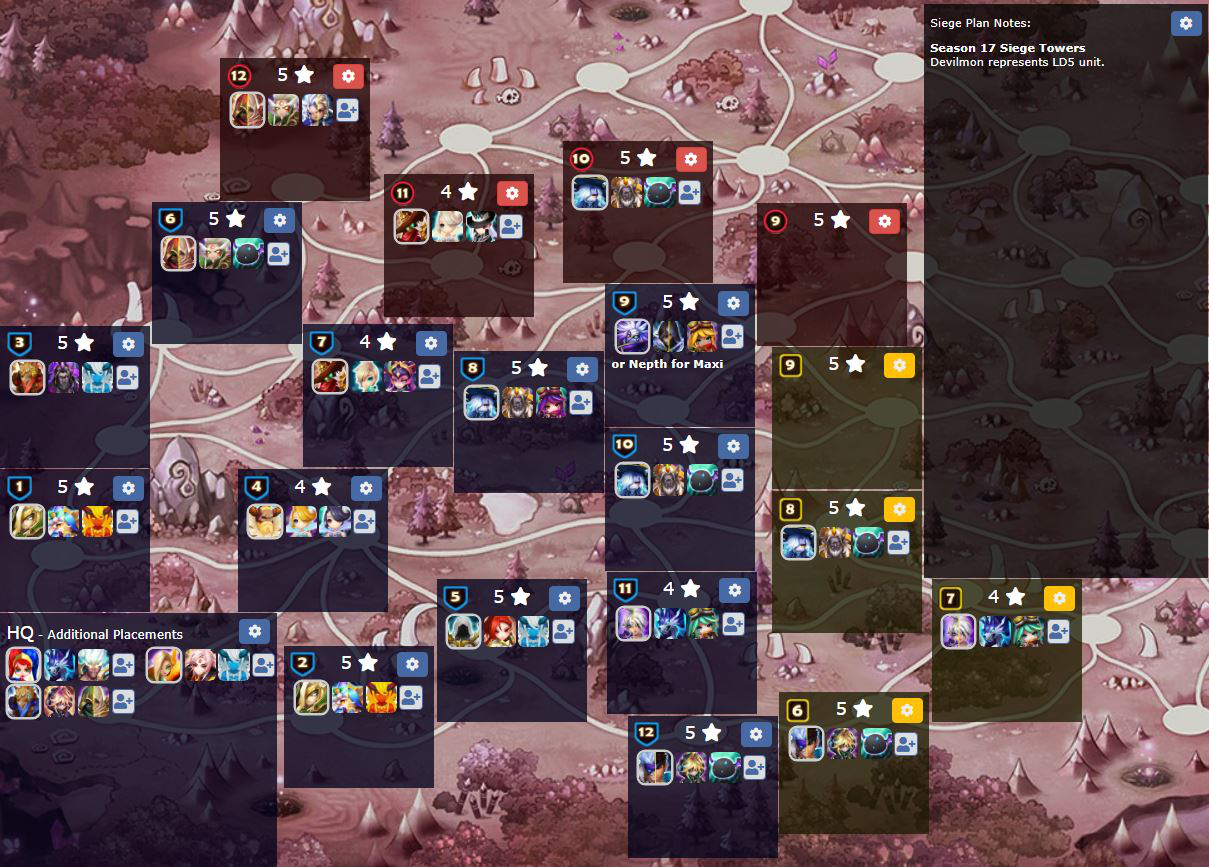
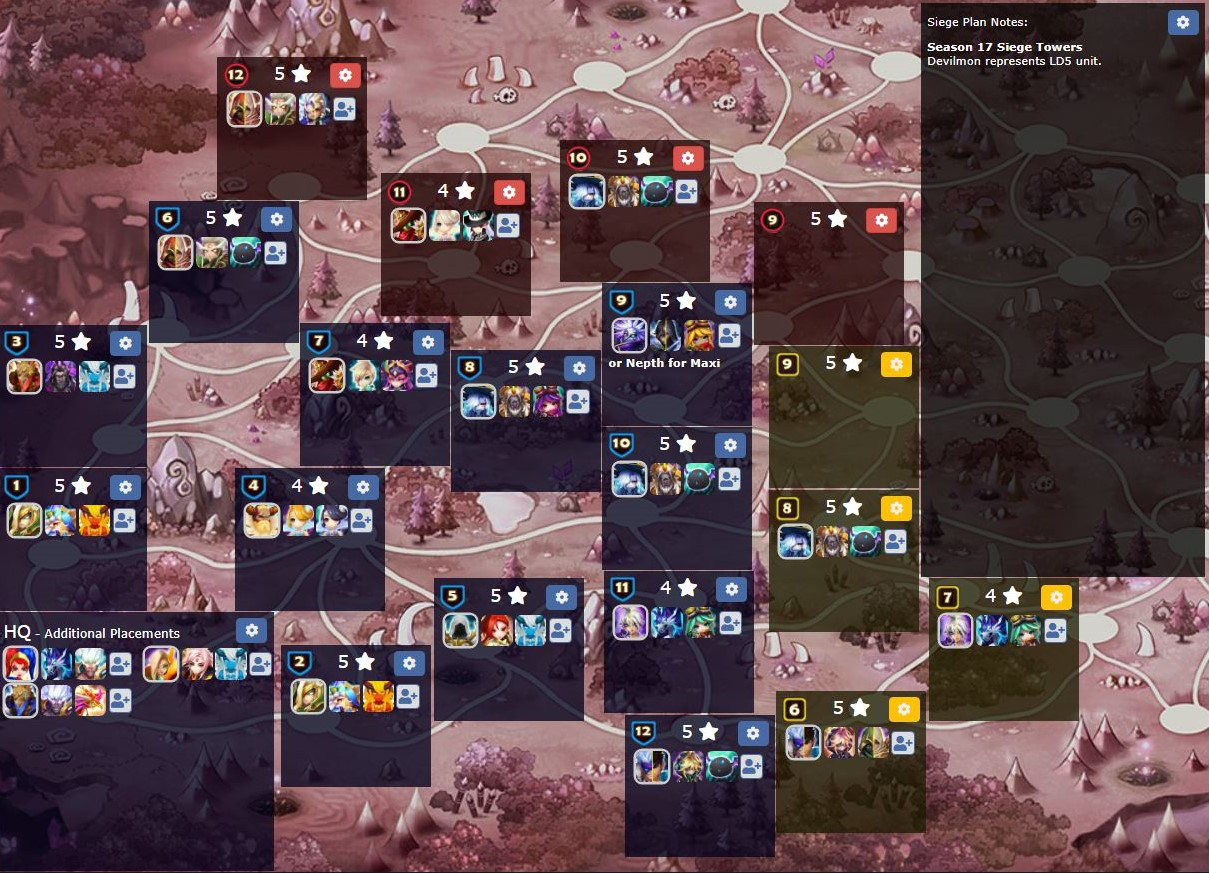
updated commit

diff --git a/index.html b/index.html
@@ -17,13 +17,12 @@
 						<div class="content">
 							<div class="inner">
 								<h1>Rock Bottom</h1>
-								<p>Season 17 Siege Defenses and Tower Placements<br />
-								SWGT platform is open for guild members <b><a href="https://rockbottom.swgt.io/">rockbottom.swgt.io</a></b></p>
+								<p>Season 17 Siege Defenses and Tower Placements</p>
 							</div>
 						</div>
 						<nav>
 							<ul>
-								<li><a href="#towers">Towers</a></li>
+								<li><a href="#towers">Defenses</a></li>
 								<li><a href="#placements">Placements</a></li>
 							</ul>
 						</nav>
@@ -32,12 +31,12 @@
 				<!-- Main -->
 			<div id="main">
 				<article id="towers">
-					<h2 class="major">Season 17 Siege Towers</h2>
+					<h2 class="major">Season 17 Siege Defense</h2>
 					<div class="container">
 
 				<!-- 5 Star Towers -->
 			<div class="section">
-					<h2>Five Star Towers</h2>
+					<h2>Five Star Defense</h2>
 					<div class="grid standard-pattern">
 						<img src="images/5Star/Maxi.png" alt="Monster">
 						<img src="images/5Star/Lionel.png" alt="Monster">
@@ -120,6 +119,12 @@
 								</div>
 
 						<div class="grid modified-pattern">
+								<img src="images/5Star/Moore.png" alt="Monster">
+								<img src="images/5Star/7r1x.png" alt="Monster">
+								<img class="force-white" src="images/5Star/Shahat.png" alt="Monster">
+							</div>
+
+						<div class="grid modified-pattern">
 								<img src="images/5Star/Kumar.png" alt="Monster">
 								<img src="images/5Star/Gapsoo.png" alt="Monster">
 								<img class="force-white" src="images/5Star/Theomars.png" alt="Monster">
@@ -141,7 +146,7 @@
 	
 			<!-- Four Star Towers -->
 			<div class="section">
-				<h2>Four Star Towers</h2>
+				<h2>Four Star Defense</h2>
 						<div class="grid modified-pattern">
 							<img src="images/4Star/Carcano.png" alt="Monster">
 							<img src="images/4Star/Iris.png" alt="Monster">
@@ -223,8 +228,8 @@
 				<h2>HQ Additionals</h2>
 					<div class="grid modified-pattern">
 						<img src="images/5Star/Chandra.png" alt="Monster">
-						<img src="images/5Star/7r1x.png" alt="Monster">
-						<img class="force-white" src="images/5Star/Shahat.png" alt="Monster">
+						<img src="images/4Star/Vritra.png" alt="Monster">
+						<img class="force-white" src="images/5Star/Perna.png" alt="Monster">
 					</div>	
 
 					<div class="grid modified-pattern">
@@ -264,7 +269,7 @@
 
 		<!-- Footer -->
 			<footer id="footer">
-				<p class="copyright">Updated by Yinmook </br>Monsters and Siege Map images belong to Com2Us</p>
+				<p class="copyright">Made by Yinmook </br>Monsters and Siege Map images are the Property of Com2Us<br><a href="https://rockbottom.swgt.io/">rockbottom.swgt.io</a></p>
 			</footer>
 
 		</div>

diff --git a/assets/css/main.css b/assets/css/main.css
@@ -917,26 +917,31 @@ input, select, textarea {
     display: flex;
     flex-wrap: wrap;
     justify-content: center;
-    gap: 10px;
-    padding: 50px;
+    gap: 20px; 
+    padding: 20px; 
 }
 
 .section {
-
-    padding: 10px;
+    padding: 15px; 
     width: 300px;
+    box-sizing: border-box; 
 }
 
 .section h2 {
     text-align: center;
     font-size: 20px;
     margin-bottom: 15px;
+    padding: 0; 
 }
 
 .grid {
     display: grid;
-    grid-template-columns: repeat(3, 1fr);
-	padding: 15px;
+    grid-template-columns: repeat(3, 1fr); 
+    gap: 10px; 
+    padding: 10px; 
+    justify-content: center; 
+    align-items: center; 
+    box-sizing: border-box;
 }
 
 .grid img {
@@ -944,6 +949,7 @@ input, select, textarea {
     height: 80px;
     border-radius: 8px;
     border: 2px solid #555;
+    margin: 0; 
 }
 
 .legend {
@@ -993,7 +999,9 @@ input, select, textarea {
 /* Green-bordered third image in the grid */
 .grid.standard-pattern > .monster-wrapper:nth-child(3n) img {
     border: 2px solid #32CD32; 
-    transition: transform 0.3s ease; 
+    margin: 0; 
+	box-sizing: border-box; 
+	transition: transform 0.3s ease;
 }
 
 /* Hover effect for the third image */
@@ -1014,7 +1022,7 @@ input, select, textarea {
     z-index: 10;
     white-space: nowrap;
     box-shadow: 0 4px 6px rgba(0, 0, 0, 0.2); 
-    transition: opacity 0.3s ease, transform 0.3s ease; 
+	transition: opacity 0.3s ease, transform 0.3s ease; 
 }
 
 /* Ensure alternative monster images also have green borders */
@@ -1024,7 +1032,7 @@ input, select, textarea {
     margin: 5px;
     border-radius: 4px;
     border: 2px solid #32CD32; 
-    transition: transform 0.2s ease; 
+    transition: transform 0.3s ease; 
 }
 
 .grid.standard-pattern > .monster-wrapper:nth-child(3n):hover .alt-box {
@@ -1139,6 +1147,7 @@ input, select, textarea {
 /* General monster wrapper styling */
 .monster-wrapper {
     position: relative;
-    display: inline-block;
+    display: flex; 
+    justify-content: center; 
+    align-items: center; 
 }
-
